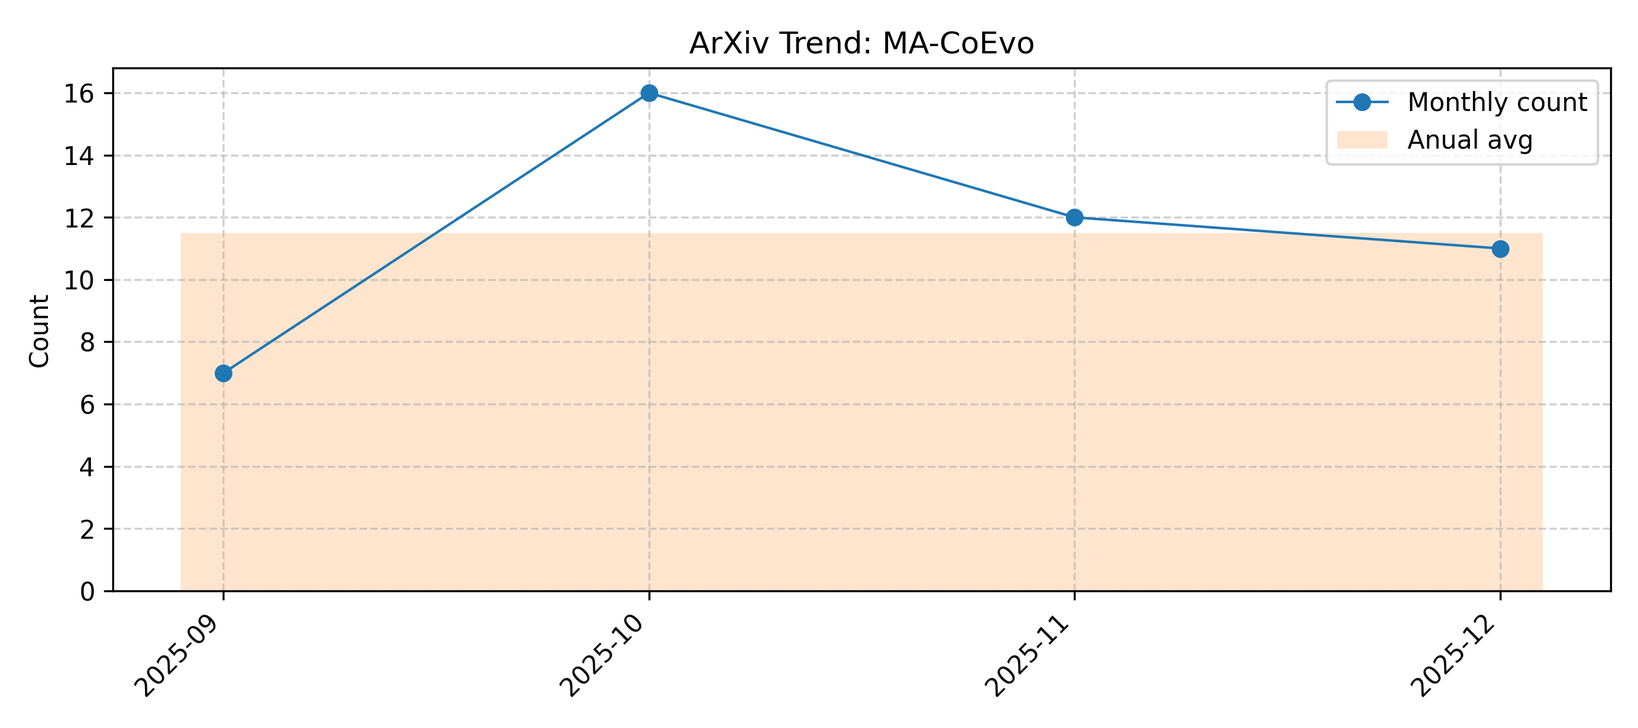
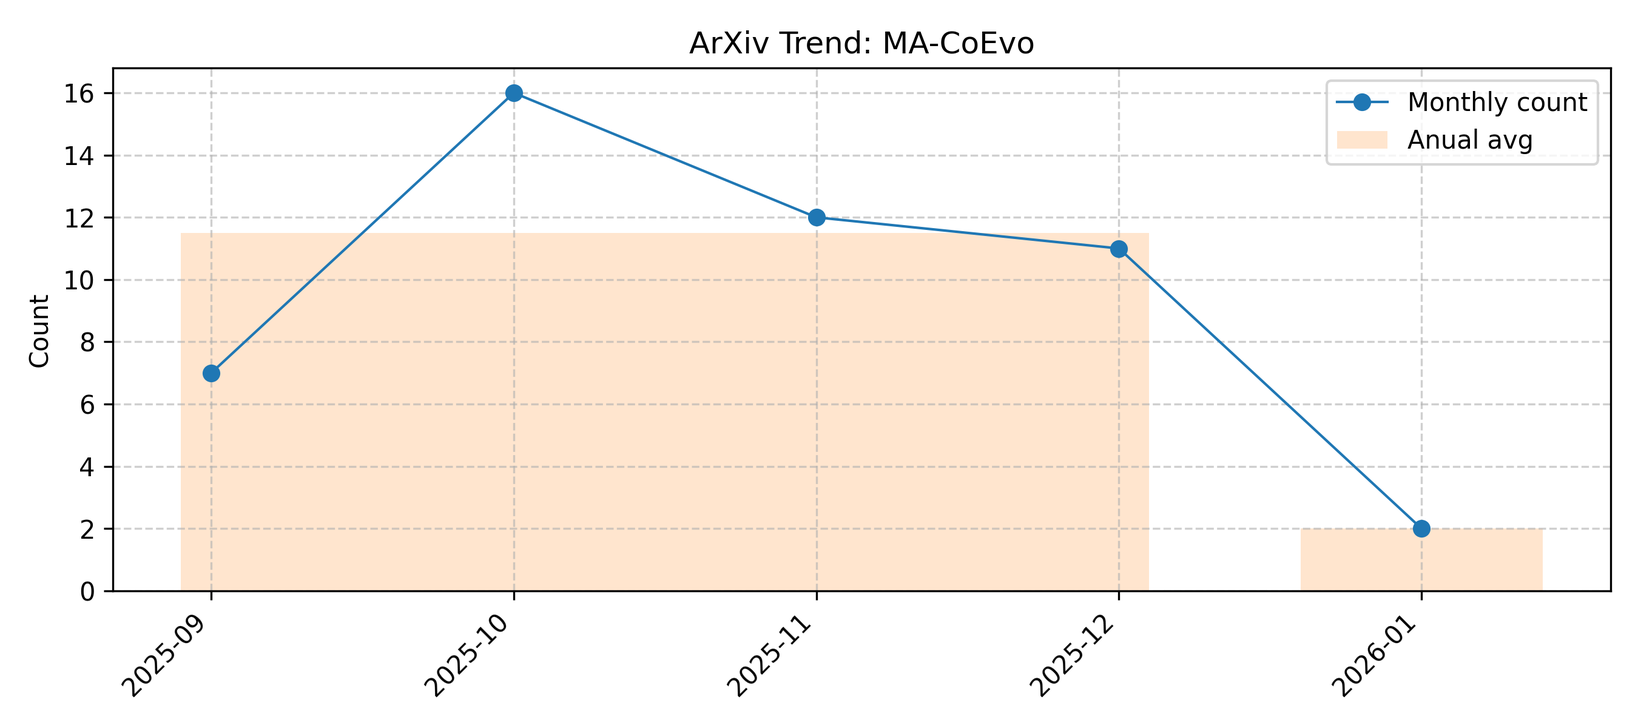
Auto update: 2026-01-09 08:00:01

diff --git a/CodeGeneration_LLM.md b/CodeGeneration_LLM.md
@@ -1,6 +1,6 @@
 # CodeGeneration_LLM
 
-> Updated on 2026.01.08
+> Updated on 2026.01.09
 
 [🔙 Back to Index](README.md)
 
@@ -8,6 +8,10 @@
 
 | Date | Title | Categories | Abstract | PDF | Code |
 |:---|:---|:---|:---|:---|:---|
+|**2026-01-07**|**Understanding Specification-Driven Code Generation with LLMs: An Empirical Study Design**|cs.SE| <details><summary>Full Abstract</summary>Large Language Models (LLMs) are increasingly integrated into software development workflows, yet their behavior in structured, specification-driven processes remains poorly understood. This paper presents an empirical study design using CURRANTE, a Visual Studio Code extension that enables a human-in-the-loop workflow for LLM-assisted code generation. The tool guides developers through three sequential stages--Specification, Tests, and Function--allowing them to define requirements, generate and refine test suites, and produce functions that satisfy those tests. Participants will solve medium-difficulty problems from the LiveCodeBench dataset, while the tool records fine-grained interaction logs, effectiveness metrics (e.g., pass rate, all-pass completion), efficiency indicators (e.g., time-to-pass), and iteration behaviors. The study aims to analyze how human intervention in specification and test refinement influences the quality and dynamics of LLM-generated code. The results will provide empirical insights into the design of next-generation development environments that align human reasoning with model-driven code generation.</details>|[2601.03878v1](http://arxiv.org/abs/2601.03878v1)| null|
+|**2026-01-07**|**Assessing and Improving the Representativeness of Code Generation Benchmarks Using Knowledge Units (KUs) of Programming Languages -- An Empirical Study**|cs.SE| <details><summary>Full Abstract</summary>Large Language Models (LLMs) such as GPT-4, Claude and LLaMA have shown impressive performance in code generation, typically evaluated using benchmarks (e.g., HumanEval). However, effective code generation requires models to understand and apply a wide range of language concepts. If the concepts exercised in benchmarks are not representative of those used in real-world projects, evaluations may yield incomplete. Despite this concern, the representativeness of code concepts in benchmarks has not been systematically examined.   To address this gap, we present the first empirical study that analyzes the representativeness of code generation benchmarks through the lens of Knowledge Units (KUs) - cohesive sets of programming language capabilities provided by language constructs and APIs. We analyze KU coverage in two widely used Python benchmarks, HumanEval and MBPP, and compare them with 30 real-world Python projects. Our results show that each benchmark covers only half of the identified 20 KUs, whereas projects exercise all KUs with relatively balanced distributions. In contrast, benchmark tasks exhibit highly skewed KU distributions.   To mitigate this misalignment, we propose a prompt-based LLM framework that synthesizes KU-based tasks to rebalance benchmark KU distributions and better align them with real-world usage. Using this framework, we generate 440 new tasks and augment existing benchmarks. The augmented benchmarks substantially improve KU coverage and achieve over a 60% improvement in distributional alignment. Evaluations of state-of-the-art LLMs on these augmented benchmarks reveal consistent and statistically significant performance drops (12.54-44.82%), indicating that existing benchmarks overestimate LLM performance due to their limited KU coverage. Our findings provide actionable guidance for building more realistic evaluations of LLM code-generation capabilities.</details>|[2601.03780v1](http://arxiv.org/abs/2601.03780v1)| null|
+|**2026-01-07**|**Verbatim Data Transcription Failures in LLM Code Generation: A State-Tracking Stress Test**|cs.SE, cs.CR| <details><summary>Full Abstract</summary>Many real-world software tasks require exact transcription of provided data into code, such as cryptographic constants, protocol test vectors, allowlists, and calibration tables. These tasks are operationally sensitive because small omissions or alterations can remain silent while producing syntactically valid programs. This paper introduces a deliberately minimal transcription-to-code benchmark to isolate this reliability concern in LLM-based code generation. Given a list of high-precision decimal constants, a model must generate Python code that embeds the constants verbatim and performs a simple aggregate computation. We describe the prompting variants, evaluation protocol based on exact-string inclusion, and analysis framework used to characterize state-tracking and long-horizon generation failures. The benchmark is intended as a compact stress test that complements existing code-generation evaluations by focusing on data integrity rather than algorithmic reasoning.</details>|[2601.03640v1](http://arxiv.org/abs/2601.03640v1)| null|
+|**2026-01-06**|**CodeEval: A pedagogical approach for targeted evaluation of code-trained Large Language Models**|cs.SE| <details><summary>Full Abstract</summary>Large Language Models (LLMs) are predominantly assessed based on their common sense reasoning, language comprehension, and logical reasoning abilities. While models trained in specialized domains like mathematics or coding have demonstrated remarkable advancements in logical reasoning, there remains a significant gap in evaluating their code generation capabilities. Existing benchmark datasets fall short in pinpointing specific strengths and weaknesses, impeding targeted enhancements in models' reasoning abilities to synthesize code. To bridge this gap, our paper introduces an innovative, pedagogical benchmarking method that mirrors the evaluation processes encountered in academic programming courses. We introduce CodeEval, a multi-dimensional benchmark dataset designed to rigorously evaluate LLMs across 24 distinct aspects of Python programming. The dataset covers three proficiency levels - beginner, intermediate, and advanced - and includes both class-based and function-based problem types with detailed problem specifications and comprehensive test suites. To facilitate widespread adoption, we also developed RunCodeEval, an open-source execution framework that provides researchers with a ready-to-use evaluation pipeline for CodeEval. RunCodeEval handles test execution, context setup, and metrics generation, enabling researchers to quickly obtain detailed insights into model strengths and weaknesses across complexity levels, problem types, and programming categories. This combination enables targeted evaluation and guides improvements in LLMs' programming proficiencies.</details>|[2601.03432v1](http://arxiv.org/abs/2601.03432v1)| null|
 |**2026-01-06**|**From Memorization to Creativity: LLM as a Designer of Novel Neural-Architectures**|cs.LG, cs.CV| <details><summary>Full Abstract</summary>Large language models (LLMs) excel in program synthesis, yet their ability to autonomously navigate neural architecture design--balancing syntactic reliability, performance, and structural novelty--remains underexplored. We address this by placing a code-oriented LLM within a closed-loop synthesis framework, analyzing its evolution over 22 supervised fine-tuning cycles. The model synthesizes PyTorch convolutional networks which are validated, evaluated via low-fidelity performance signals (single-epoch accuracy), and filtered using a MinHash-Jaccard criterion to prevent structural redundancy. High-performing, novel architectures are converted into prompt-code pairs for iterative fine-tuning via parameter-efficient LoRA adaptation, initialized from the LEMUR dataset. Across cycles, the LLM internalizes empirical architectural priors, becoming a robust generator. The valid generation rate stabilizes at 50.6 percent (peaking at 74.5 percent), while mean first-epoch accuracy rises from 28.06 percent to 50.99 percent, and the fraction of candidates exceeding 40 percent accuracy grows from 2.04 percent to 96.81 percent. Analyses confirm the model moves beyond replicating existing motifs, synthesizing 455 high-performing architectures absent from the original corpus. By grounding code synthesis in execution feedback, this work provides a scalable blueprint for transforming stochastic generators into autonomous, performance-driven neural designers, establishing that LLMs can internalize empirical, non-textual rewards to transcend their training data.</details>|[2601.02997v1](http://arxiv.org/abs/2601.02997v1)| null|
 |**2026-01-06**|**CodeMEM: AST-Guided Adaptive Memory for Repository-Level Iterative Code Generation**|cs.SE| <details><summary>Full Abstract</summary>Large language models (LLMs) substantially enhance developer productivity in repository-level code generation through interactive collaboration. However, as interactions progress, repository context must be continuously preserved and updated to integrate newly validated information. Meanwhile, the expanding session history increases cognitive burden, often leading to forgetting and the reintroduction of previously resolved errors. Existing memory management approaches show promise but remain limited by natural language-centric representations. To overcome these limitations, we propose CodeMEM, an AST-guided dynamic memory management system tailored for repository-level iterative code generation. Specifically, CodeMEM introduces the Code Context Memory component that dynamically maintains and updates repository context through AST-guided LLM operations, along with the Code Session Memory that constructs a code-centric representation of interaction history and explicitly detects and mitigates forgetting through AST-based analysis. Experimental results on the instruction-following benchmark CodeIF-Bench and the code generation benchmark CoderEval demonstrate that CodeMEM achieves state-of-the-art performance, improving instruction following by 12.2% for the current turn and 11.5% for the session level, and reducing interaction rounds by 2-3, while maintaining competitive inference latency and token efficiency.</details>|[2601.02868v1](http://arxiv.org/abs/2601.02868v1)| null|
 |**2026-01-05**|**LoRA-Drop: Temporal LoRA Decoding for Efficient LLM Inference**|cs.CL| <details><summary>Full Abstract</summary>Autoregressive large language models (LLMs) are bottlenecked by sequential decoding, where each new token typically requires executing all transformer layers. Existing dynamic-depth and layer-skipping methods reduce this cost, but often rely on auxiliary routing mechanisms or incur accuracy degradation when bypassed layers are left uncompensated. We present \textbf{LoRA-Drop}, a plug-and-play inference framework that accelerates decoding by applying a \emph{temporal compute schedule} to a fixed subset of intermediate layers: on most decoding steps, selected layers reuse the previous-token hidden state and apply a low-rank LoRA correction, while periodic \emph{refresh} steps execute the full model to prevent drift. LoRA-Drop requires no routing network, is compatible with standard KV caching, and can reduce KV-cache footprint by skipping KV updates in droppable layers during LoRA steps and refreshing periodically. Across \textbf{LLaMA2-7B}, \textbf{LLaMA3-8B}, \textbf{Qwen2.5-7B}, and \textbf{Qwen2.5-14B}, LoRA-Drop achieves up to \textbf{2.6$\times$ faster decoding} and \textbf{45--55\% KV-cache reduction} while staying within \textbf{0.5 percentage points (pp)} of baseline accuracy. Evaluations on reasoning (GSM8K, MATH, BBH), code generation (HumanEval, MBPP), and long-context/multilingual benchmarks (LongBench, XNLI, XCOPA) identify a consistent \emph{safe zone} of scheduling configurations that preserves quality while delivering substantial efficiency gains, providing a simple path toward adaptive-capacity inference in LLMs. Codes are available at https://github.com/hosseinbv/LoRA-Drop.git.</details>|[2601.02569v1](http://arxiv.org/abs/2601.02569v1)| null|
@@ -15,7 +19,7 @@
 |**2026-01-05**|**ModeX: Evaluator-Free Best-of-N Selection for Open-Ended Generation**|cs.CL, cs.AI| <details><summary>Full Abstract</summary>Selecting a single high-quality output from multiple stochastic generations remains a fundamental challenge for large language models (LLMs), particularly in open-ended tasks where no canonical answer exists. While Best-of-N and self-consistency methods show that aggregating multiple generations can improve performance, existing approaches typically rely on external evaluators, reward models, or exact string-match voting, limiting their applicability and efficiency. We propose Mode Extraction (ModeX), an evaluator-free Best-of-N selection framework that generalizes majority voting to open-ended text generation by identifying the modal output representing the dominant semantic consensus among generated texts. ModeX constructs a similarity graph over candidate generations and recursively applies spectral clustering to select a representative centroid, without requiring additional inference or auxiliary models. We further instantiate this selection principle as ModeX-Lite, an improved version of ModeX with early pruning for efficiency. Across open-ended tasks -- including text summarization, code generation, and mathematical reasoning -- our approaches consistently outperform standard single- and multi-path baselines, providing a computationally efficient solution for robust open-ended text generation. Code is released in https://github.com/deeplearning-wisc/ModeX.</details>|[2601.02535v1](http://arxiv.org/abs/2601.02535v1)| null|
 |**2026-01-05**|**WebCoderBench: Benchmarking Web Application Generation with Comprehensive and Interpretable Evaluation Metrics**|cs.SE, cs.AI| <details><summary>Full Abstract</summary>Web applications (web apps) have become a key arena for large language models (LLMs) to demonstrate their code generation capabilities and commercial potential. However, building a benchmark for LLM-generated web apps remains challenging due to the need for real-world user requirements, generalizable evaluation metrics without relying on ground-truth implementations or test cases, and interpretable evaluation results. To address these challenges, we introduce WebCoderBench, the first real-world-collected, generalizable, and interpretable benchmark for web app generation. WebCoderBench comprises 1,572 real user requirements, covering diverse modalities and expression styles that reflect realistic user intentions. WebCoderBench provides 24 fine-grained evaluation metrics across 9 perspectives, combining rule-based and LLM-as-a-judge paradigm for fully automated, objective, and general evaluation. Moreover, WebCoderBench adopts human-preference-aligned weights over metrics to yield interpretable overall scores. Experiments across 12 representative LLMs and 2 LLM-based agents show that there exists no dominant model across all evaluation metrics, offering an opportunity for LLM developers to optimize their models in a targeted manner for a more powerful version.</details>|[2601.02430v1](http://arxiv.org/abs/2601.02430v1)| null|
 |**2025-12-31**|**PCEval: A Benchmark for Evaluating Physical Computing Capabilities of Large Language Models**|cs.CL, cs.AI| <details><summary>Full Abstract</summary>Large Language Models (LLMs) have demonstrated remarkable capabilities across various domains, including software development, education, and technical assistance. Among these, software development is one of the key areas where LLMs are increasingly adopted. However, when hardware constraints are considered-for instance, in physical computing, where software must interact with and control physical hardware -their effectiveness has not been fully explored. To address this gap, we introduce \textsc{PCEval} (Physical Computing Evaluation), the first benchmark in physical computing that enables a fully automatic evaluation of the capabilities of LLM in both the logical and physical aspects of the projects, without requiring human assessment. Our evaluation framework assesses LLMs in generating circuits and producing compatible code across varying levels of project complexity. Through comprehensive testing of 13 leading models, \textsc{PCEval} provides the first reproducible and automatically validated empirical assessment of LLMs' ability to reason about fundamental hardware implementation constraints within a simulation environment. Our findings reveal that while LLMs perform well in code generation and logical circuit design, they struggle significantly with physical breadboard layout creation, particularly in managing proper pin connections and avoiding circuit errors. \textsc{PCEval} advances our understanding of AI assistance in hardware-dependent computing environments and establishes a foundation for developing more effective tools to support physical computing education.</details>|[2601.02404v1](http://arxiv.org/abs/2601.02404v1)| null|
-|**2026-01-06**|**MDAgent2: Large Language Model for Code Generation and Knowledge Q&A in Molecular Dynamics**|cs.CE, cs.LG| <details><summary>Full Abstract</summary>Molecular dynamics (MD) simulations are essential for understanding atomic-scale behaviors in materials science, yet writing LAMMPS scripts remains highly specialized and time-consuming tasks. Although LLMs show promise in code generation and domain-specific question answering, their performance in MD scenarios is limited by scarce domain data, the high deployment cost of state-of-the-art LLMs, and low code executability. Building upon our prior MDAgent, we present MDAgent2, the first end-to-end framework capable of performing both knowledge Q&A and code generation within the MD domain. We construct a domain-specific data-construction pipeline that yields three high-quality datasets spanning MD knowledge, question answering, and code generation. Based on these datasets, we adopt a three stage post-training strategy--continued pre-training (CPT), supervised fine-tuning (SFT), and reinforcement learning (RL)--to train two domain-adapted models, MD-Instruct and MD-Code. Furthermore, we introduce MD-GRPO, a closed-loop RL method that leverages simulation outcomes as reward signals and recycles low-reward trajectories for continual refinement. We further build MDAgent2-RUNTIME, a deployable multi-agent system that integrates code generation, execution, evaluation, and self-correction. Together with MD-EvalBench proposed in this work, the first benchmark for LAMMPS code generation and question answering, our models and system achieve performance surpassing several strong baselines.This work systematically demonstrates the adaptability and generalization capability of large language models in industrial simulation tasks, laying a methodological foundation for automatic code generation in AI for Science and industrial-scale simulations. URL: https://github.com/FredericVAN/PKU_MDAgent2</details>|[2601.02075v2](http://arxiv.org/abs/2601.02075v2)| null|
+|**2026-01-07**|**MDAgent2: Large Language Model for Code Generation and Knowledge Q&A in Molecular Dynamics**|cs.CE, cs.LG| <details><summary>Full Abstract</summary>Molecular dynamics (MD) simulations are essential for understanding atomic-scale behaviors in materials science, yet writing LAMMPS scripts remains highly specialized and time-consuming tasks. Although LLMs show promise in code generation and domain-specific question answering, their performance in MD scenarios is limited by scarce domain data, the high deployment cost of state-of-the-art LLMs, and low code executability. Building upon our prior MDAgent, we present MDAgent2, the first end-to-end framework capable of performing both knowledge Q&A and code generation within the MD domain. We construct a domain-specific data-construction pipeline that yields three high-quality datasets spanning MD knowledge, question answering, and code generation. Based on these datasets, we adopt a three stage post-training strategy--continued pre-training (CPT), supervised fine-tuning (SFT), and reinforcement learning (RL)--to train two domain-adapted models, MD-Instruct and MD-Code. Furthermore, we introduce MD-GRPO, a closed-loop RL method that leverages simulation outcomes as reward signals and recycles low-reward trajectories for continual refinement. We further build MDAgent2-RUNTIME, a deployable multi-agent system that integrates code generation, execution, evaluation, and self-correction. Together with MD-EvalBench proposed in this work, the first benchmark for LAMMPS code generation and question answering, our models and system achieve performance surpassing several strong baselines.This work systematically demonstrates the adaptability and generalization capability of large language models in industrial simulation tasks, laying a methodological foundation for automatic code generation in AI for Science and industrial-scale simulations. URL: https://github.com/FredericVAN/PKU_MDAgent2</details>|[2601.02075v3](http://arxiv.org/abs/2601.02075v3)| null|
 |**2026-01-05**|**Perish or Flourish? A Holistic Evaluation of Large Language Models for Code Generation in Functional Programming**|cs.PL, cs.AI, cs.SE| <details><summary>Full Abstract</summary>Functional programming provides strong foundations for developing reliable and secure software systems, yet its adoption remains not widespread due to the steep learning curve. Recent advances in Large Language Models (LLMs) for code generation present new opportunities to lower these barriers. However, extensive evaluations of LLMs largely focus on imperative programming languages, and their capabilities in functional programming languages (FP) remain underexplored. To address this gap, we introduce FPEval, a holistic evaluation framework built on FPBench, a new benchmark of 721 programming tasks across three difficulty levels on three mainstream FP languages: Haskell, Ocaml and Scala. FPEval provides compehensive evaluation infrastructures with both test validations with comprehensive test suites and static analysis tools to assess both functional correctness and code style and maintainability. Using this framework, we evaluate state-of-the-art LLMs, including GPT-3.5, GPT-4o, and GPT-5, for code generation in functional programming languages and Java as an imperative baseline. Our results demonstrate that LLM performance in functional programming improves substantially with model advancement; however, error rates remain significantly higher in purely functional languages (Haskell and OCaml) than in hybrid (Scala) or imperative (Java) languages. Moreover, LLMs frequently generate non-idiomatic functional code that follows imperative patterns, raising concerns about code style and long-term maintainability. Finally, we show that LLMs can partially self-repair both correctness and quality issues when provided with static analysis feedback and hand-crafted instructions for common types of issues.</details>|[2601.02060v1](http://arxiv.org/abs/2601.02060v1)| null|
 |**2026-01-04**|**CaveAgent: Transforming LLMs into Stateful Runtime Operators**|cs.AI, cs.SE| <details><summary>Full Abstract</summary>LLM-based agents are increasingly capable of complex task execution, yet current agentic systems remain constrained by text-centric paradigms. Traditional approaches rely on procedural JSON-based function calling, which often struggles with long-horizon tasks due to fragile multi-turn dependencies and context drift. In this paper, we present CaveAgent, a framework that transforms the paradigm from "LLM-as-Text-Generator" to "LLM-as-Runtime-Operator." We introduce a Dual-stream Context Architecture that decouples state management into a lightweight semantic stream for reasoning and a persistent, deterministic Python Runtime stream for execution. In addition to leveraging code generation to efficiently resolve interdependent sub-tasks (e.g., loops, conditionals) in a single step, we introduce \textit{Stateful Runtime Management} in CaveAgent. Distinct from existing code-based approaches that remain text-bound and lack the support for external object injection and retrieval, CaveAgent injects, manipulates, and retrieves complex Python objects (e.g., DataFrames, database connections) that persist across turns. This persistence mechanism acts as a high-fidelity external memory to eliminate context drift, avoid catastrophic forgetting, while ensuring that processed data flows losslessly to downstream applications. Comprehensive evaluations on Tau$^2$-bench, BFCL and various case studies across representative SOTA LLMs demonstrate CaveAgent's superiority. Specifically, our framework achieves a 10.5\% success rate improvement on retail tasks and reduces total token consumption by 28.4\% in multi-turn scenarios. On data-intensive tasks, direct variable storage and retrieval reduces token consumption by 59\%, allowing CaveAgent to handle large-scale data that causes context overflow failures in both JSON-based and Code-based agents.</details>|[2601.01569v1](http://arxiv.org/abs/2601.01569v1)| null|
 |**2026-01-03**|**CatchAll: Repository-Aware Exception Handling with Knowledge-Guided LLMs**|cs.SE| <details><summary>Full Abstract</summary>Exception handling is a vital forward error-recovery mechanism in many programming languages, enabling developers to manage runtime anomalies through structured constructs (e.g., try-catch blocks). Improper or missing exception handling often leads to severe consequences, including system crashes and resource leaks. While large language models (LLMs) have demonstrated strong capabilities in code generation, they struggle with exception handling at the repository level, due to complex dependencies and contextual constraints. In this work, we propose CatchAll, a novel LLM-based approach for repository-aware exception handling. CatchAll equips LLMs with three complementary layers of exception-handling knowledge: (1) API-level exception knowledge, obtained from an empirically constructed API-exception mapping that characterizes the exception-throwing behaviors of APIs in real-world codebases; (2) repository-level execution context, which captures exception propagation by modeling contextual call traces around the target code; and (3) cross-repository handling knowledge, distilled from reusable exception-handling patterns mined from historical code across projects. The knowledge is encoded into structured prompts to guide the LLM in generating accurate and context-aware exception-handling code. To evaluate CatchAll, we construct two new benchmarks for repository-aware exception handling: a large-scale dataset RepoExEval and an executable subset RepoExEval-Exec. Experiments demonstrate that RepoExEval consistently outperforms state-of-the-art baselines, achieving a CodeBLEU score of 0.31 (vs. 0.27% for the best baseline), intent prediction accuracy of 60.1% (vs. 48.0%), and Pass@1 of 29% (vs. 25%). These results affirm RepoExEval's effectiveness in real-world repository-level exception handling.</details>|[2601.01271v1](http://arxiv.org/abs/2601.01271v1)| null|

diff --git a/MA-CoEvo.md b/MA-CoEvo.md
@@ -1,6 +1,6 @@
 # MA-CoEvo
 
-> Updated on 2026.01.08
+> Updated on 2026.01.09
 
 [🔙 Back to Index](README.md)
 
@@ -8,6 +8,8 @@
 
 | Date | Title | Categories | Abstract | PDF | Code |
 |:---|:---|:---|:---|:---|:---|
+|**2026-01-07**|**RADAR: Retrieval-Augmented Detector with Adversarial Refinement for Robust Fake News Detection**|cs.CL| <details><summary>Full Abstract</summary>To efficiently combat the spread of LLM-generated misinformation, we present RADAR, a retrieval-augmented detector with adversarial refinement for robust fake news detection. Our approach employs a generator that rewrites real articles with factual perturbations, paired with a lightweight detector that verifies claims using dense passage retrieval. To enable effective co-evolution, we introduce verbal adversarial feedback (VAF). Rather than relying on scalar rewards, VAF issues structured natural-language critiques; these guide the generator toward more sophisticated evasion attempts, compelling the detector to adapt and improve. On a fake news detection benchmark, RADAR achieves 86.98% ROC-AUC, significantly outperforming general-purpose LLMs with retrieval. Ablation studies confirm that detector-side retrieval yields the largest gains, while VAF and few-shot demonstrations provide critical signals for robust training.</details>|[2601.03981v1](http://arxiv.org/abs/2601.03981v1)| null|
+|**2026-01-07**|**SCRIBE: Structured Mid-Level Supervision for Tool-Using Language Models**|cs.AI| <details><summary>Full Abstract</summary>Training reliable tool-augmented agents remains a significant challenge, largely due to the difficulty of credit assignment in multi-step reasoning. While process-level reward models offer a promising direction, existing LLM-based judges often produce noisy and inconsistent signals because they lack fine-grained, task-specific rubrics to distinguish high-level planning from low-level execution. In this work, we introduce SCRIBE (Skill-Conditioned Reward with Intermediate Behavioral Evaluation), a reinforcement learning framework that intervenes at a novel mid-level abstraction. SCRIBE grounds reward modeling in a curated library of skill prototypes, transforming open-ended LLM evaluation into a constrained verification problem. By routing each subgoal to a corresponding prototype, the reward model is equipped with precise, structured rubrics that substantially reduce reward variance.   Experimental results show that SCRIBE achieves state-of-the-art performance across a range of reasoning and tool-use benchmarks. In particular, it improves the AIME25 accuracy of a Qwen3-4B model from 43.3% to 63.3%, and significantly increases success rates in complex multi-turn tool interactions.   Further analysis of training dynamics reveals a co-evolution across abstraction levels, where mastery of mid-level skills consistently precedes the emergence of effective high-level planning behaviors. Finally, we demonstrate that SCRIBE is additive to low-level tool optimizations, providing a scalable and complementary pathway toward more autonomous and reliable tool-using agents.</details>|[2601.03555v1](http://arxiv.org/abs/2601.03555v1)| null|
 |**2025-12-25**|**Co-Evolution of Types and Dependencies: Towards Repository-Level Type Inference for Python Code**|cs.SE| <details><summary>Full Abstract</summary>Python's dynamic typing mechanism, while promoting flexibility, is a significant source of runtime type errors that plague large-scale software, which inspires the automatic type inference techniques. Existing type inference tools have achieved advances in type inference within isolated code snippets. However, repository-level type inference remains a significant challenge, primarily due to the complex inter-procedural dependencies that are difficult to model and resolve. To fill this gap, we present \methodName, a novel approach based on LLMs that achieves repository-level type inference through the co-evolution of types and dependencies. \methodName~constructs an Entity Dependency Graph (EDG) to model the objects and type dependencies across the repository. During the inference process, it iteratively refines types and dependencies in EDG for accurate type inference. Our key innovations are: (1) an EDG model designed to capture repository-level type dependencies; (2) an iterative type inference approach where types and dependencies co-evolve in each iteration; and (3) a type-checker-in-the-loop strategy that validates and corrects inferences on-the-fly, thereby reducing error propagation. When evaluated on 12 complex Python repositories, \methodName~significantly outperformed prior works, achieving a \textit{TypeSim} score of 0.89 and a \textit{TypeExact} score of 0.84, representing a 27\% and 40\% relative improvement over the strongest baseline. More importantly, \methodName~removed new type errors introduced by the tool by 92.7\%. This demonstrates a significant leap towards automated, reliable type annotation for real-world Python development.</details>|[2512.21591v1](http://arxiv.org/abs/2512.21591v1)| null|
 |**2025-12-23**|**GenEnv: Difficulty-Aligned Co-Evolution Between LLM Agents and Environment Simulators**|cs.CL| <details><summary>Full Abstract</summary>Training capable Large Language Model (LLM) agents is critically bottlenecked by the high cost and static nature of real-world interaction data. We address this by introducing GenEnv, a framework that establishes a difficulty-aligned co-evolutionary game between an agent and a scalable, generative environment simulator. Unlike traditional methods that evolve models on static datasets, GenEnv instantiates a dataevolving: the simulator acts as a dynamic curriculum policy, continuously generating tasks specifically tailored to the agent's ``zone of proximal development''. This process is guided by a simple but effective $α$-Curriculum Reward, which aligns task difficulty with the agent's current capabilities. We evaluate GenEnv on five benchmarks, including API-Bank, ALFWorld, BFCL, Bamboogle, and TravelPlanner. Across these tasks, GenEnv improves agent performance by up to \textbf{+40.3\%} over 7B baselines and matches or exceeds the average performance of larger models. Compared to Gemini 2.5 Pro-based offline data augmentation, GenEnv achieves better performance while using 3.3$\times$ less data. By shifting from static supervision to adaptive simulation, GenEnv provides a data-efficient pathway for scaling agent capabilities.</details>|[2512.19682v2](http://arxiv.org/abs/2512.19682v2)| null|
 |**2025-12-19**|**Understanding Generalization in Role-Playing Models via Information Theory**|cs.LG, cs.AI, cs.CL| <details><summary>Full Abstract</summary>Role-playing models (RPMs) are widely used in real-world applications but underperform when deployed in the wild. This degradation can be attributed to distribution shifts, including user, character, and dialogue compositional shifts. Existing methods like LLM-as-a-judge fall short in providing a fine-grained diagnosis of how these shifts affect RPM generalization, and thus there lack formal frameworks to characterize RPM generalization behaviors. To bridge these gaps, we introduce an information-theoretic metric, named reasoning-based effective mutual information difference (R-EMID), to measure RPM performance degradation in an interpretable way. We also derive an upper bound on R-EMID to predict the worst-case generalization performance of RPMs and theoretically reveal how various shifts contribute to the RPM performance degradation. Moreover, we propose a co-evolving reinforcement learning framework to adaptively model the connection among user, character, and dialogue context and thus enhance the estimation of dialogue response generation probability, which is critical for calculating R-EMID. Finally, we evaluate the generalization performance of various RPMs using R-EMID, finding that user shift poses the highest risk among all shifts and reinforcement learning is the most effective approach for enhancing RPM generalization.</details>|[2512.17270v1](http://arxiv.org/abs/2512.17270v1)| null|

diff --git a/README.md b/README.md
@@ -1,6 +1,6 @@
 # Daily ArXiv Papers
 
-> Last Updated: 2026.01.08
+> Last Updated: 2026.01.09
 
 This project provides daily updates on ArXiv papers regarding Multi-Agent LLMs, GUI Testing, and Code Generation. It builds upon the work of @bansky-cl, with refinements by @bbc00710086, and is currently deployed and maintained by zzz.
 

diff --git a/GUI_LLM_RL_MA.md b/GUI_LLM_RL_MA.md
@@ -1,6 +1,6 @@
 # GUI_LLM_RL_MA
 
-> Updated on 2026.01.08
+> Updated on 2026.01.09
 
 [🔙 Back to Index](README.md)
 

diff --git a/MA-CoEvo-RL.md b/MA-CoEvo-RL.md
@@ -1,6 +1,6 @@
 # MA-CoEvo-RL
 
-> Updated on 2026.01.08
+> Updated on 2026.01.09
 
 [🔙 Back to Index](README.md)
 
